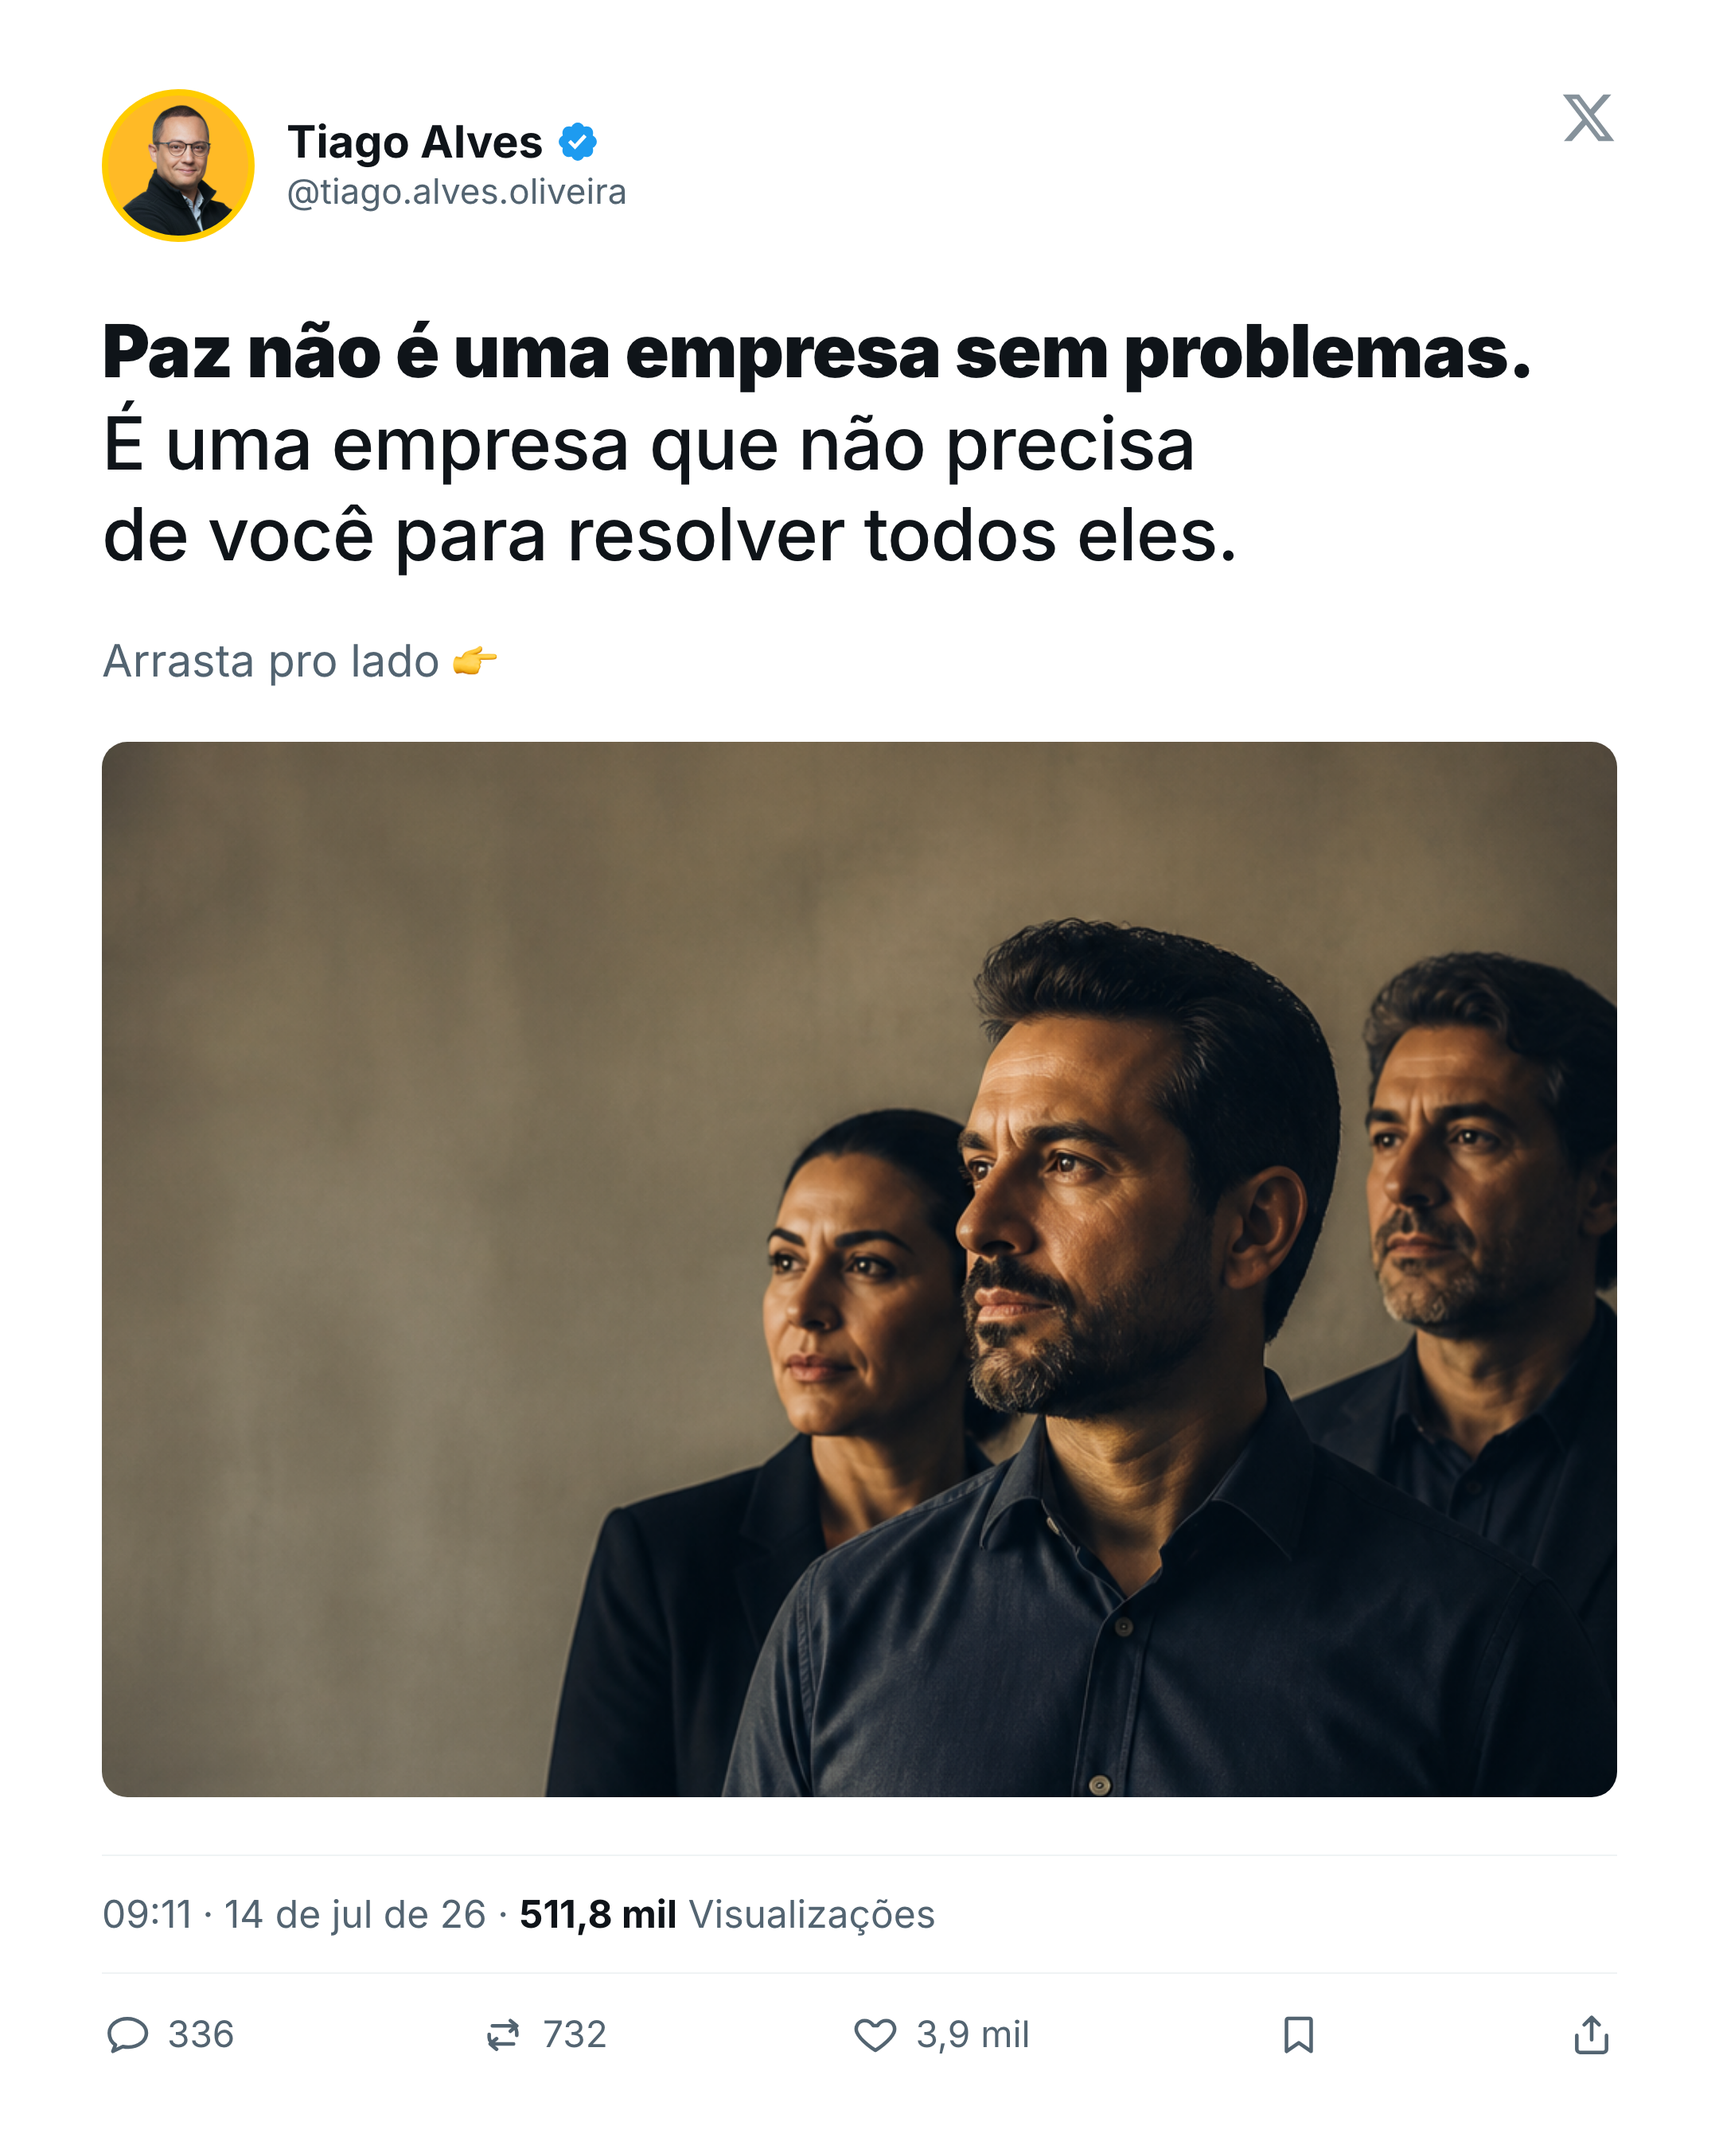
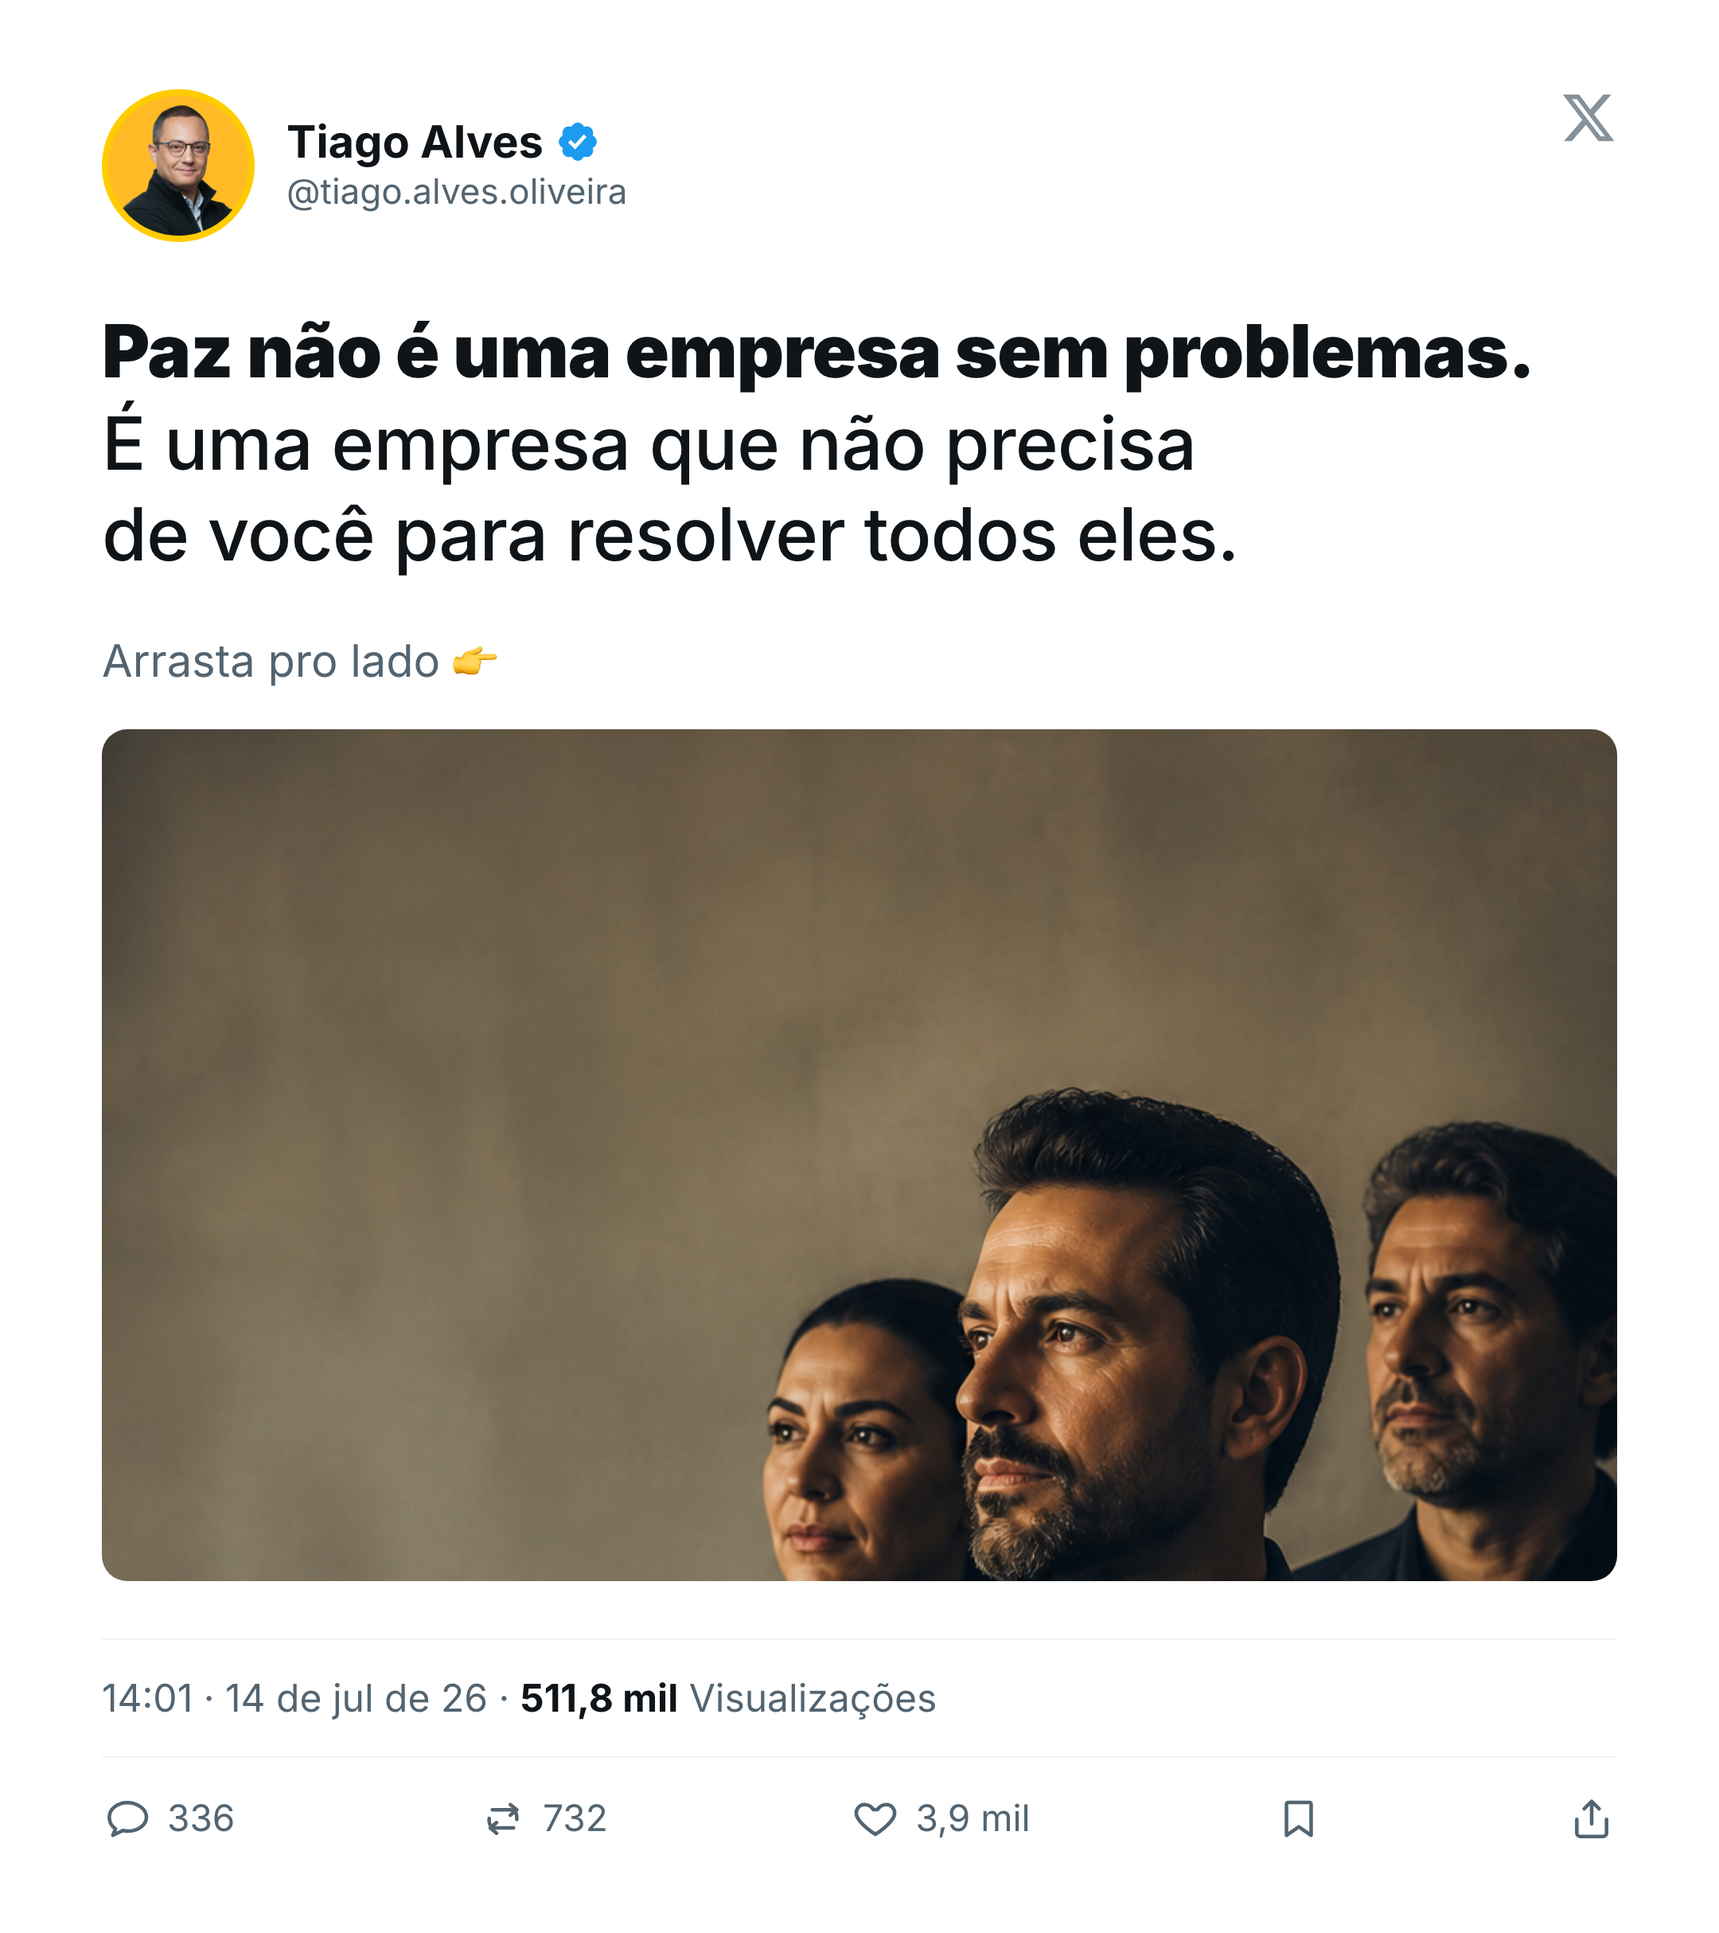
feat(tweet-img): imagem embed com proporção variável + canvas auto-height
Implementa o plano (opção B): a foto embed do tweet respeita a proporção
original em vez de esticar/cortar num flex:1.

- _blueprint_render: _embed_aspect() mede W×H da imagem (data-URI/arquivo),
  clampa estilo X (wide ~1.91:1, tall ~4:5) e injeta aspect-ratio inline no
  .tw-embed. data-embed="1" no wrapper quando o tweet tem imagem.
- _engine.css: .tw-embed flex:1 -> flex:0 0 auto + aspect-ratio; e o card
  (data-embed) vira height:auto/overflow:visible = altura do conteúdo, como
  um print de tweet real e cru.
- Testado landscape/portrait/square: sem distorção (grid quadrado continua
  quadrado), altura do card acompanha a imagem, clamp corta só o que passa
  do limite. Tweet de texto (sem imagem) segue 4:5 fixo, sem regressão.

Só medição + CSS, custo zero de IA. É a Fase 1 na prática (motor mede a
imagem e adapta o layout).

diff --git a/source/ad-blueprints/_engine.css b/source/ad-blueprints/_engine.css
@@ -673,6 +673,10 @@ button { all: unset; }
    mata o vazio branco que sobrava entre a mensagem e a barra de engajamento
    presa no rodapé (feedback: "esticada, conteúdo só no meio, não completa"). */
 .ad[data-marca="tiago"][data-arch="tiago-twitter"] { background: var(--t-white); padding: 56px 64px; display: flex; flex-direction: column; justify-content: center; }
+/* tweet COM imagem (data-embed): canvas auto-height = altura do conteúdo,
+   como um print de tweet real e cru. Sem centralizar (flui do topo), sem
+   overflow hidden (senão corta o que passa da altura fixa do formato). */
+.ad[data-marca="tiago"][data-arch="tiago-twitter"][data-embed="1"] { height: auto; min-height: 0; overflow: visible; justify-content: flex-start; }
 .ad[data-marca="tiago"][data-arch="tiago-twitter"] .tw-header { display: flex; align-items: center; gap: 20px; margin-bottom: 40px; }
 .ad[data-marca="tiago"][data-arch="tiago-twitter"] .tw-avatar { width: 96px; height: 96px; border-radius: 50%; background: var(--t-yellow); display: flex; align-items: center; justify-content: center; flex-shrink: 0; border: 4px solid var(--t-yellow); }
 .ad[data-marca="tiago"][data-arch="tiago-twitter"] .tw-avatar-initial { font-size: 52px; color: var(--t-ink); line-height: 1; font-weight: 700; }
@@ -708,7 +712,9 @@ button { all: unset; }
 .ad[data-marca="tiago"][data-arch="tiago-twitter"] .tw-cta--arrow-only { text-align: right; font-size: 44px; margin: 40px 0 0; }
 /* variant IMAGE — foto embed radius 28px ocupa a base do card */
 .ad[data-marca="tiago"][data-arch="tiago-twitter"] .tw-text--withimg { flex: 0 0 auto; }
-.ad[data-marca="tiago"][data-arch="tiago-twitter"] .tw-embed { flex: 1; min-height: 0; margin-top: 32px; border-radius: 16px; overflow: hidden; }
+/* embed segue a proporção da imagem (aspect-ratio vem inline do render, medido
+   e clampado estilo X) — flex:0 0 auto pra NÃO esticar. 16/9 é só fallback. */
+.ad[data-marca="tiago"][data-arch="tiago-twitter"] .tw-embed { flex: 0 0 auto; aspect-ratio: 16 / 9; margin-top: 24px; border-radius: 16px; overflow: hidden; }
 .ad[data-marca="tiago"][data-arch="tiago-twitter"] .tw-embed-photo { width: 100%; height: 100%; background-size: cover; background-position: center; }
 /* prova social de print real: timestamp + views e barra de engajamento do X */
 .ad[data-marca="tiago"][data-arch="tiago-twitter"] .tw-meta { font-size: 24px; color: var(--t-grey); margin-top: 36px; padding-top: 22px; border-top: 1px solid #EFF3F4; }

diff --git a/api/_blueprint_render.py b/api/_blueprint_render.py
@@ -86,6 +86,32 @@ def _accent(text: str) -> str:
     return esc.replace("\n", "<br>")
 
 
+def _embed_aspect(image_url: str, ar_min: float = 0.52, ar_max: float = 1.30):
+    """Mede W×H da imagem embed do tweet e devolve (w, h) inteiros pro
+    aspect-ratio do CSS, CLAMPADO estilo Twitter (muito wide → ~1.91:1; muito
+    tall → ~4:5). Assim a foto aparece na proporção dela em vez de esticar.
+    None se não der pra medir (o CSS cai no fallback)."""
+    if not image_url:
+        return None
+    try:
+        import base64 as _b64, io as _io
+        from PIL import Image as _Image
+        if image_url.startswith("data:"):
+            im = _Image.open(_io.BytesIO(_b64.b64decode(image_url.split(",", 1)[1])))
+        else:
+            p = Path(image_url)
+            if not p.exists():
+                return None
+            im = _Image.open(p)
+        w, h = im.size
+        if not w or not h:
+            return None
+        ar = max(ar_min, min(ar_max, h / w))
+        return (1000, int(round(1000 * ar)))
+    except Exception:
+        return None
+
+
 # ---------------------------------------------------------------------------
 # Markup por archetype — recebe (copy, params) e devolve o innerHTML do .ad
 # ---------------------------------------------------------------------------
@@ -426,9 +452,12 @@ def _markup_tiago(arch: str, copy: dict, params: dict, image_url: str) -> str:
                 f'<div class="tmq-text layer">{head("tmq-headline")}{sub("tmq-subhead")}</div>')
 
     if arch == "tiago-twitter":
-        # Variant IMAGE: foto embed (radius 28px) na base quando há imagem.
+        # Variant IMAGE: foto embed na base quando há imagem. A proporção do
+        # embed segue a da imagem (medida + clampada estilo X) — não estica.
         has_img = bool(image_url)
-        embed = (f'<div class="tw-embed"><div class="tw-embed-photo" '
+        _ar = _embed_aspect(image_url) if has_img else None
+        _ar_style = f' style="aspect-ratio:{_ar[0]}/{_ar[1]}"' if _ar else ""
+        embed = (f'<div class="tw-embed"{_ar_style}><div class="tw-embed-photo" '
                  f'style="background-image:url(\'{image_url}\')"></div></div>') if has_img else ""
         # Post reflexivo real (feedback: texto "esticado" quando é 1 bloco só
         # centralizado) — headline com linha em branco vira vários parágrafos
@@ -727,6 +756,8 @@ def render(marca: str, model_id: str, copy: dict, image_url: str = "", format: s
         f'data-align="{_esc(align)}" data-scale="{_esc(scale)}" data-photo="{_esc(photo)}" '
         f'data-block="{_esc(block)}" data-anchor="{_esc(anchor)}" data-head="{_esc(head_style)}" '
         f'data-obj-scale="{_esc(obj_scale)}" data-panel="{_esc(panel)}"'
+        # tweet COM imagem → canvas auto-height (print cru, altura = conteúdo)
+        + (' data-embed="1"' if (arch == "tiago-twitter" and (image_url or "").strip()) else "")
     )
 
     fonts_css = _read(_BLUEPRINTS_DIR / "_fonts.css")

diff --git a/content/direcao-arte/plano-imagem-tweet-variavel.md b/content/direcao-arte/plano-imagem-tweet-variavel.md
@@ -69,8 +69,11 @@ emite no `.tw-embed`:
 | **A — canvas fixo** (feed 4:5) + imagem no aspecto dela, centralizada | mantém 1080×1350 | posta direto no Instagram (formato fixo) | sobra branca variável em cima/embaixo |
 | **B — canvas auto-height** (altura = conteúdo) | dimensão variável | 1:1 com print de tweet real | não é 4:5 fixo p/ feed do Instagram |
 
-**Recomendação: começar pela A** (menor risco, mantém o formato de post). B fica
-como evolução se a equipe quiser o print "cru".
+**DECISÃO (Nathan, 18/07): opção B — canvas auto-height.** O card do tweet
+renderiza na altura do conteúdo (header + texto + imagem no aspecto dela +
+engajamento), igual a um print de tweet real e cru. Saída com dimensão variável
+(não 4:5 fixo). Implica um caminho de render que captura a altura natural (não
+força FORMAT_DIMS) só pra os archetypes de mock (tweet).
 
 ## Onde mexer
 
